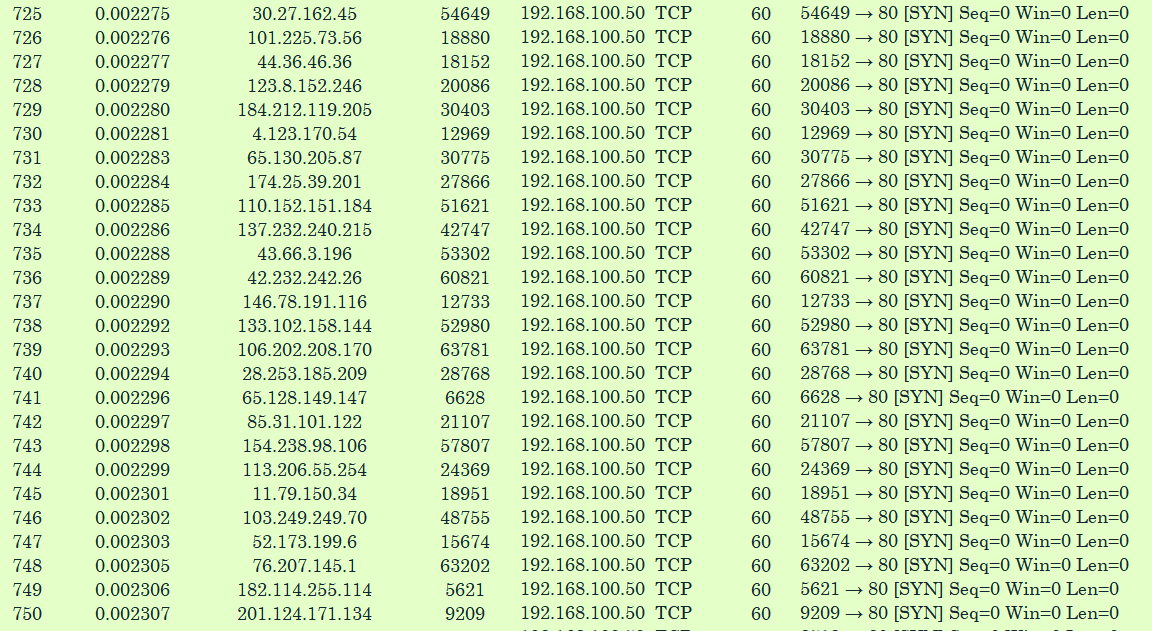
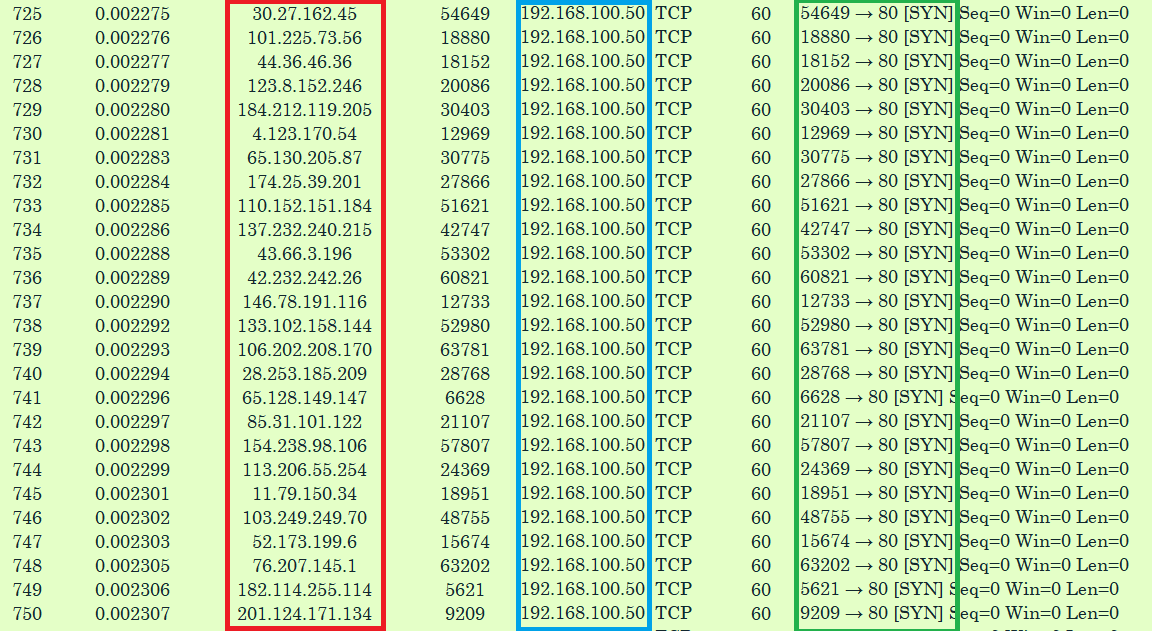
수정

Changed region(s): [[0.6875, 0.0, 0.8438, 1.0], [0.4375, 0.0, 0.5938, 1.0], [0.1875, 0.0, 0.3438, 1.0]]

diff --git a/src/page/Home.jsx b/src/page/Home.jsx
@@ -40,7 +40,25 @@ const sections = [
         title: 'Syn Flooding 공격 패킷분석',
         content: [
             { type: 'image', className: 'img2' },
-            { type: 'text', content: '내용 ㄻㄹㄴㅁㄹㄴㄹㄹ' }
+            {
+                type: 'text', content: <div>
+                    공격자(빨간색)
+                    <div className='smaller'>
+                        <li>IP를 스푸핑하며 특정 IP로 패킷을 계속 날리는 것을 볼 수 있다.</li>
+                        <li>공격자는 0초에서 시작하여 750개의 SYN 패킷을 0.002307초 만에 서버로 전송했다는 뜻이다.</li>
+                        <li>이렇게 많은 IP를 사용하여 본인의 IP를 숨기고 추척을 어렵게 한다.</li>
+                    </div>
+                    피해서버(파란색)
+
+                    패킷의 상태(초록색)
+                    <div className='smaller'>
+                        <li>IP를 스푸핑하며 특정 IP로 패킷을 계속 날리는 것을 볼 수 있다.</li>
+                        <li>공격자는 0초에서 시작하여 750개의 SYN 패킷을 0.002307초 만에 서버로 전송했다는 뜻이다.</li>
+                        <li>이렇게 많은 IP를 사용하여 본인의 IP를 숨기고 추척을 어렵게 한다.</li>
+                    </div>
+
+                </div>
+            }
         ]
     },
 
